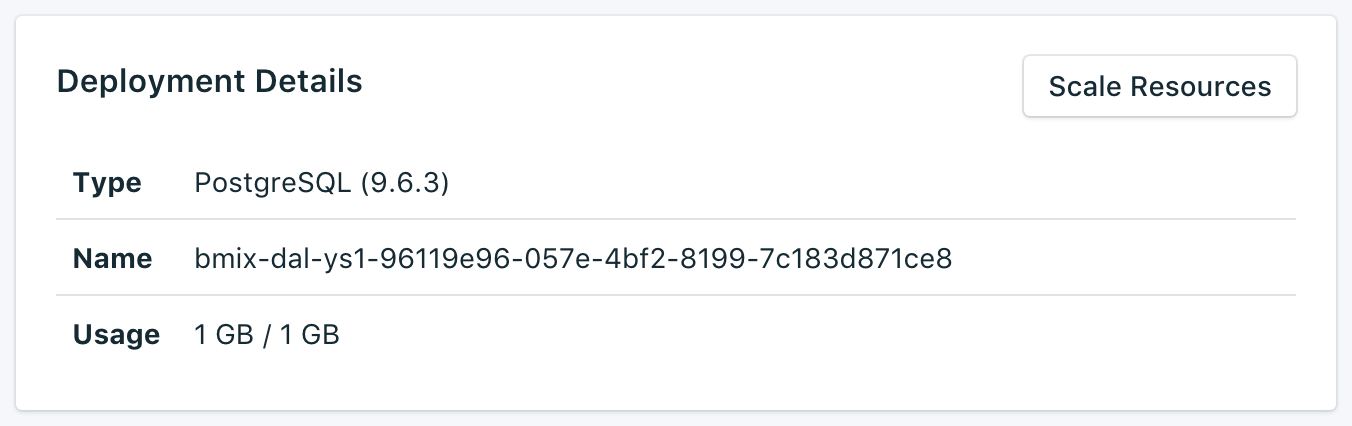
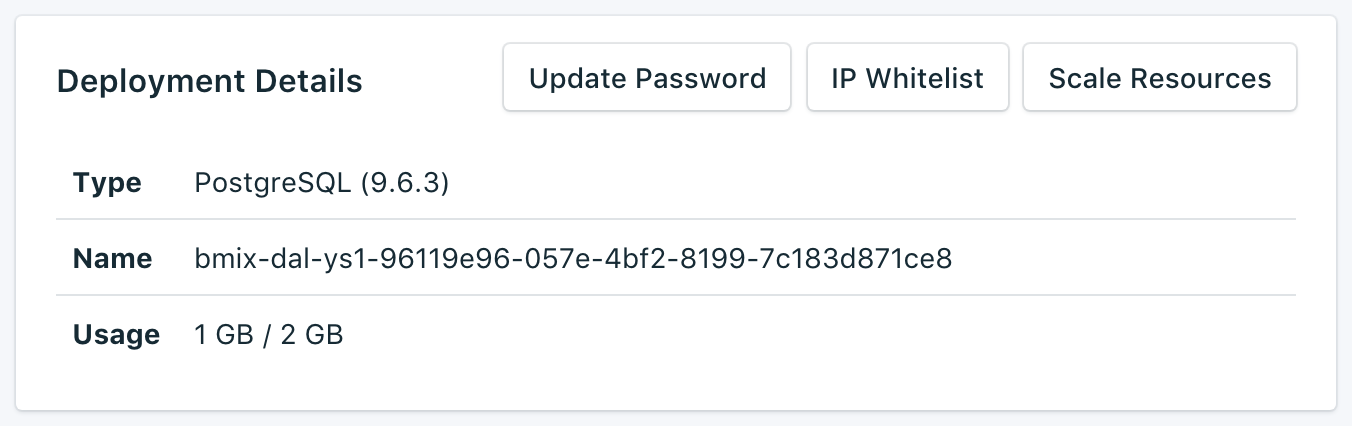
Oct 17 updates

Changed region(s): [[0.3728, 0.0915, 0.963, 0.2746], [0.3728, 0.1526, 0.7456, 0.2136], [0.1864, 0.7629, 0.2796, 0.8239]]

diff --git a/dashboard-whitelists.md b/dashboard-whitelists.md
@@ -1,0 +1,37 @@
+---
+
+Copyright:
+  Years: 2017
+lastupdated: "2017-10-16"
+---
+
+{:new_window: target="_blank"}
+{:shortdesc: .shortdesc}
+{:screen: .screen}
+{:codeblock: .codeblock}
+{:pre: .pre}
+
+# Whitelists
+
+If you want to restrict access to your databases, you can whitelist specific ip addresses or ranges of ip addresses on your service. When there are no IP addresses in the whitelist, the whitelist is disabled and the deployment will accept connections from any system on the internet.
+
+![Whitelisting IPs](./images/postgres-whitelist-show.png "The whitelist fields.")
+
+## IP Addresses
+The *IP* field can take a single complete IPv4 address or IPv6 address with or without a netmask. Without a netmask, incoming connections must come from exactly that IP address. 
+
+Note that although the IP entry allows for IPv6, no Compose deployments are currently available to IPv6 networking and so these addresses cannot be filtered on.
+
+## Netmasks
+To allow a connection from a specified range of IP addresses, use a netmask. The IP address must be fully specified when using a netmask. That means entering, for example, 192.168.1.0/24 rather than 192.168.1/24.
+
+## Description
+The *Description* can be any user-significant text for identifying the whitelist entry - a customer name, project identifier or employee number, for example. The description field is required.
+
+## Compose Services
+We automatically add whitelist entries to Compose's servers to allow them to connect.
+
+## Removal
+To remove an IP address or netmask from the Whitelist, click the *Remove* entry displayed next to it.
+When all entries on the whitelist are removed, the whitelist will be disabled and all IP addresses will be accepted by the TCP access portals.
+

diff --git a/dashboard-update-service-password.md b/dashboard-update-service-password.md
@@ -1,0 +1,32 @@
+---
+
+Copyright:
+  Years: 2017
+lastupdated: "2017-10-16"
+---
+
+{:new_window: target="_blank"}
+{:shortdesc: .shortdesc}
+{:screen: .screen}
+{:codeblock: .codeblock}
+{:pre: .pre}
+
+# Updating the Service Password
+
+You might find it necessary to change the password of your service. You can do so using _Update Password_. 
+
+A new, randomly generated password will appear, or you can type your own password into the field. To regenerate another password, click on the dice to the right of the field. 
+  
+![Updating the PostgreSQL password](./images/postgres-update-password.png "The automatic password generator")
+
+The changes take effect when you click on the **Update Password** button. This will change the credentials that you and your services use to connect and is a part of your service's connection string. The _Deployment Details_ pane will show the progress of the job that is now in progress:
+
+![Update password job running](./images/postgres-update-password-running.png "The Deployment Details pane, showing one running job: Change PostgreSQL password running")
+
+## Updating Connected Applications
+
+Changing the password will invalidate the existing connection string and generate a new one. This will cause a service interruption until connected applications are updated with the new connection string. You will have to do this by suppling the new connection string to your applications.
+
+More information on connecting your applications is in [Connecting a Bluemix Application](./connecting-bluemix-app.html).
+and [Connecting an external application](./connecting-external.html).
+

diff --git a/dashboard-backups.md b/dashboard-backups.md
@@ -22,6 +22,10 @@ Daily backups of your database are automatically scheduled. To view your existin
 
 ![Backups](./images/postgres-backups-show.png "A list of backups in the service dashboard")
 
+Click on the corresponding row to expand the options for any available backup.
+
+![Backup Options](./images/postgres-backups-options.png "Options for a backup.") 
+
 ## Creating a backup on demand
 
 As well as scheduled backups you can create a backup manually. To create a manual backup, navigate to the *Manage* page of your service dashboard and click *Backup now*.
@@ -44,3 +48,7 @@ To restore to a local database:
 2. The backup includes a README file: `data/backup/*timestamp*/snapshot/README`. Open the README file in a text editor.
 3. Download and install PostgreSQL locally. The README file indicates the version of PostgreSQL that the backup should be run with.
 4. Follow the instructions in the README file to run a local copy of your database. Start your local PostgreSQL inside the snapshot directory with the command `postgres -D conf`. You can then connect to the db by running: `psql postgres -U focker`.
+
+## Restoring a backup
+
+To restore a backup to a new service instance, follow the steps to view existing backups, then click in the corresponding row to expand the options for the backup you want to download. Click on the **Restore** button. A message is displayed to let you know that a resotre has been initiated. The new service instance will automatically be named "postgres-restore-[timestamp]", and appears on your dashboard when provisioning starts.

diff --git a/index.md b/index.md
@@ -2,7 +2,7 @@
 
 copyright:
   years: 2016,2017
-lastupdated: "2017-07-12"
+lastupdated: "2017-10-16"
 ---
 
 {:new_window: target="_blank"}
@@ -29,7 +29,7 @@ When you provision your {{site.data.keyword.composeForPostgreSQL}} instance you 
 
 ## Managing Compose for PostgreSQL
 
-You can manage your service from the service dashboard. Here you can find information about your Bluemix Compose database and how to connect to it. You can also manage your backups from the dashboard and allocated more resources for your service. For more information, see [Service Overview](./dashboard-overview.html), [Backups](./dashboard-backups.html), and [Scaling Resources](./dashboard-scaling-resources.html).
+You can manage your service from the service dashboard. Here you can find information about your Bluemix Compose database and how to connect to it. You can also manage your backups, allocate more resources for your service, use whitelists to restrict access to your databases, and reset the service password. For more information, see [Service Overview](./dashboard-overview.html), [Backups](./dashboard-backups.html), [Scaling Resources](./dashboard-scaling-resources.html), [Whitelists](./dashboard-whitelists.html), and [Updating the Service Password](./dashboard-update-service-password.html).
 
 ## Connecting to Compose for PostgreSQL
 {: #connecting-to-compose-for-postgreSQL}
